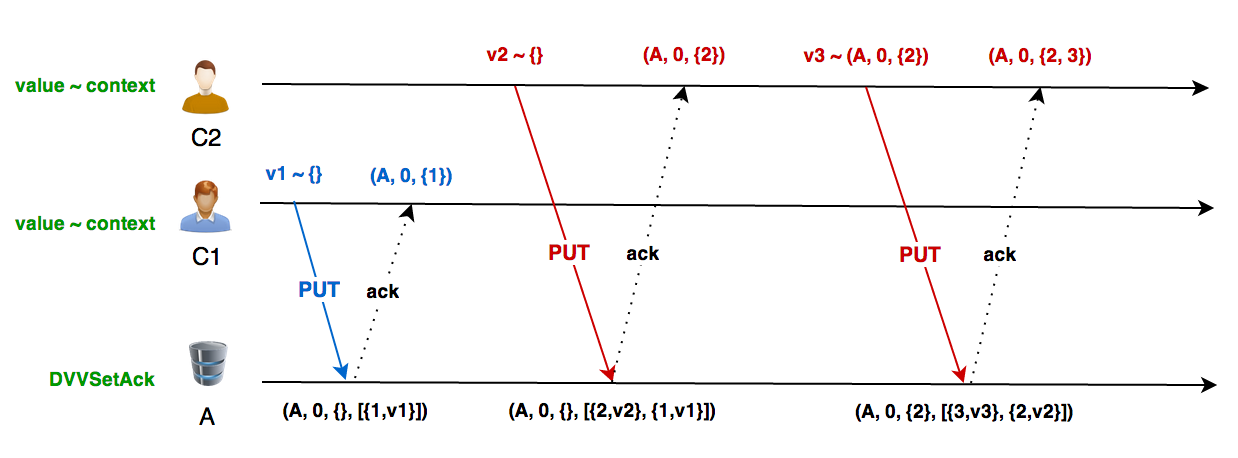
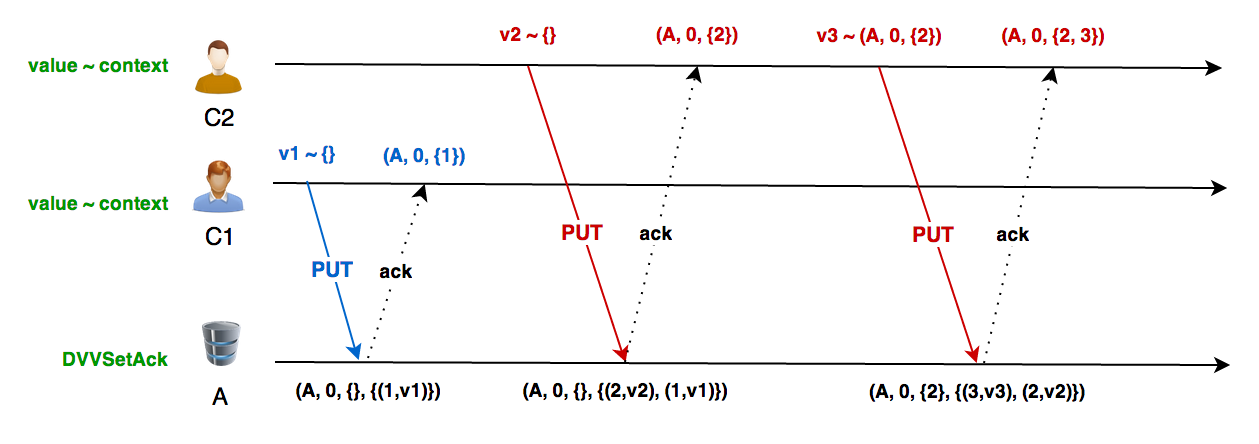
Updated image for last section, and added some notes on notation.

diff --git a/README.md b/README.md
@@ -13,7 +13,18 @@ databases with a get/put interface (has shown below).
 - [The Solution: Dotted Version Vector Sets](https://github.com/ricardobcl/Dotted-Version-Vectors#the-solution-dotted-version-vectors-sets)
 - [Real World with Riak](https://github.com/ricardobcl/Dotted-Version-Vectors#real-world-with-riak)
 - [How to Use](https://github.com/ricardobcl/Dotted-Version-Vectors#how-to-use)
-- [*Variations*](https://github.com/ricardobcl/Dotted-Version-Vectors#dvvsets-variations)
+- [Variations:](https://github.com/ricardobcl/Dotted-Version-Vectors#dvvsets-variations)
+    * [Removing old entries](https://github.com/ricardobcl/Dotted-Version-Vectors#removing-old-entries)
+    * [Consecutive and concurrent writes](https://github.com/ricardobcl/Dotted-Version-Vectors#consecutive-and-concurrent-writes)
+
+##### Brief note on notation
+
+{ ... } is a *set* (no order or duplicates)
+
+[ ... ] is a *list* (like an array, has order)
+
+( ... ) is a *n-tuple* (pair, triples, etc.)
+
 
 ## Intro
 
@@ -621,6 +632,8 @@ the events (dots) with values, represented by tuples `(dot, value)`.
 
 
 #### Example
+
+(Unlike previous illustrations, lets make responses to client requests explicit.)
 
 With DVVSet:
 ![DVVSet Ack][DVVSet Ack]
